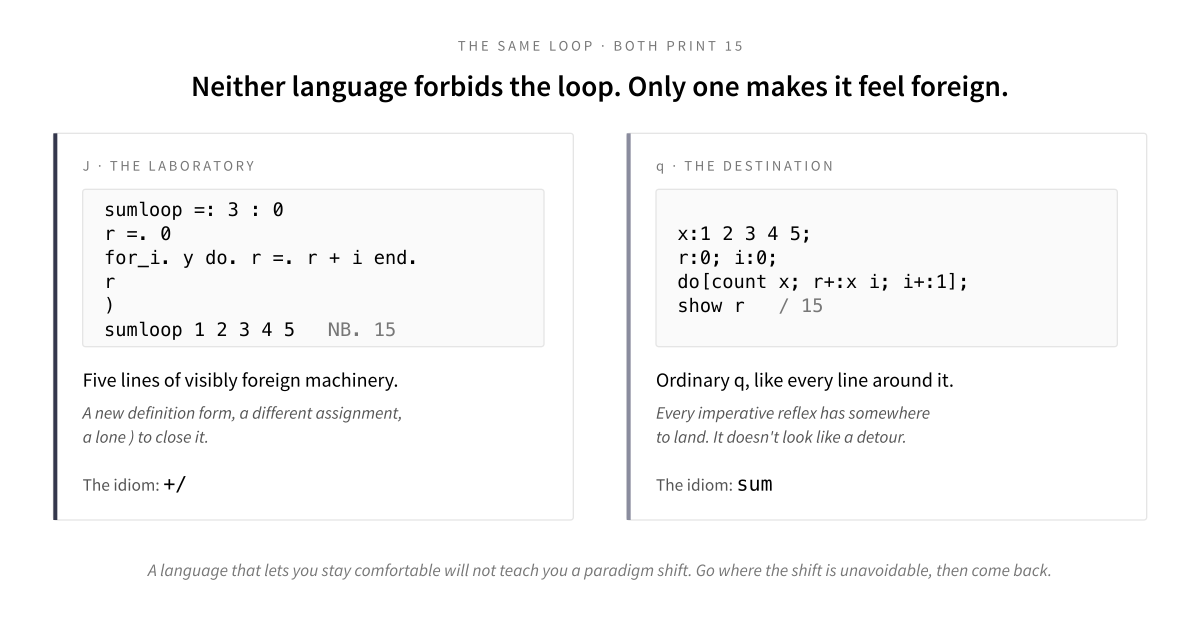
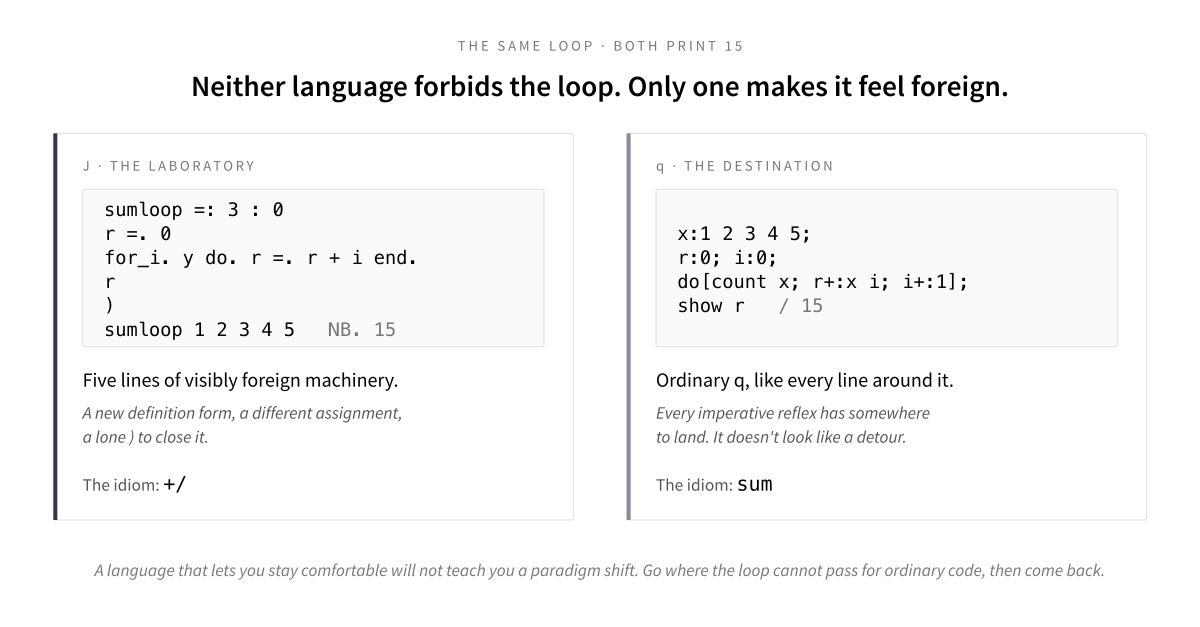
writings: adversarial pass on "Unlearn the loop" before publication
Codex adversarial review over the whole article, its three figures and the new posts, run with
CODEX_POLICY_OVERRIDE=user-requested-adversarial-review because the publishing brief asked for
this pass. Six findings; each was checked against the lessons, the eval records and the pinned
interpreters before it was applied, and all six were real.

- "A parenthesised run of functions is a syntax error" overgeneralised the fork's failure. On
  KDB-X CE 5.0, `(sum max count) 1 2 3` parses and returns 3 (q reads it as max applied to two
  function atoms, which yields count). The sentence now says such a run does not make a new
  function in q, and that the fork does not even parse. Lesson 01 carried the same sentence and
  gets the same fix; the transition chapter already had it right.
- "Somewhere the shift cannot be avoided" contradicted the section's own argument that J does not
  forbid loops. Now "somewhere the loop cannot pass for ordinary code", in the article and in
  figure 1's footer and description; the card is re-rendered from the edited figure and stays
  byte-identical to `rsvg-convert -w 1200`.
- "For printing one extra line": both task 15 answers printed a six-line schema table before the
  join (`show meta quote`). Now "an extra block, the table's schema, before the answer", which is
  what eval/runs/notes.md and the eval article say.
- The posts said "a moving window is a running total with a width"; the lesson equates the moving
[…]

Changed region(s): [[0.0925, 0.8788, 0.925, 0.9394]]

diff --git a/writings/04-social.md b/writings/04-social.md
@@ -16,7 +16,7 @@ transition chapter's two blocks under "The windows have a different shape, and n
 verbatim; `3 mavg 1 2 3 4 5 6f    / 1 1.5 2 3 4 5` is the next block, verbatim including its
 trailing comment, which is the output make verify-prose checks. All three are byte-identical to
 lessons/00-transition/README.md (checked 2026-10-17).
-Tagging: KX is @kxsystems on X. KX has no Bluesky, Mastodon or Nostr account (checked
+Tagging: KX is @kxsystems on X, inside the first 280 characters as in the eval and as-of join posts. KX has no Bluesky, Mastodon or Nostr account (checked
 2026-09-25), so those posts name KX in plain text. J is named in plain text everywhere; no account
 is tagged for it.
 Images: attach writings/figures/04/linkedin-card.png (1200×627, figure 1 rendered with
@@ -37,21 +37,22 @@ language forbids the loop, only one makes it feel foreign.
 
 Figure 3 alt text (the self-reply):
 Two panels about J habits that break in q. Left, the fork fails loudly: +/ % # is a mean written
-with no data; typed into q it does not parse, the error message is blank and the caret lands
-mid-fork, so you cannot ship it; q wants avg or a lambda instead. Right, the windows fail silently:
-the 3-period moving average of 1 to 6 gives four results in J (2 3 4 5) and six in q
-(1 1.5 2 3 4 5); drawn aligned by position, J's first result sits under q's third, so reading q's
-first value as a full window is two slots early, with no error. Footer: the thinking transfers,
-the plumbing does not; respect the silent one more.
+with no data; the same text typed into q is shown with the blank error message q prints and the
+note "does not parse", so you cannot ship it; q wants avg or a lambda instead. Right, the windows
+fail silently: the 3-period moving average of 1 to 6 gives four results in J (2 3 4 5) and six in
+q (1 1.5 2 3 4 5), drawn as two rows of boxes aligned by position, so J's first value sits above
+q's first; an arrow from J's first value to q's third shows where it belongs, two slots to the
+right. Read q's first value as a full window and you are two slots early, with no error. Footer:
+the thinking transfers, the plumbing does not; respect the silent one more.
 -->
 
 # X (single long post, tag @kxsystems)
 
-Here is a perfectly good q program: a counter, a loop, an accumulator, and it prints 15. It will still be correct next year, in production. That is the problem. q has every imperative reflex you brought from Python or Java, and the answers come out right, so nothing ever pushes you toward sum x. Article 4 of my array-thinking series.
+Here is a perfectly good q program: a counter, a loop, an accumulator, and it prints 15. It will still be correct next year, in production. That is the problem. @kxsystems' q has every imperative reflex you brought from Python or Java, and the answers come out right, so nothing ever pushes you toward sum x. Article 4 of my array-thinking series.
 
 J doesn't forbid loops either. But to write one you leave J's ordinary notation entirely: a definition block, a different assignment, a lone ) to close it. Five lines of visibly foreign machinery, where the idiom is two characters. In q the loop is one ordinary line, indistinguishable from the q around it. That feeling of having wandered off is the whole case for a short detour through J before q.
 
-Three ideas come back from the detour: iteration is something you attach to a function (a moving window is a running total with a width), a function can be written with no data in it, and depth is a number you choose. Two of them betray you on the way back. The fork +/ % # (sum divided by count, with no data mentioned) does not parse in q: loud, and it cannot ship. The other one ships. The 3-period moving average of six numbers in J:
+Three ideas come back from the detour: iteration is something you attach to a function (a moving sum is a running total with a width), a function can be written with no data in it, and depth is a number you choose. Two of them betray you on the way back. The fork +/ % # (sum divided by count, with no data mentioned) does not parse in q: loud, and it cannot ship. The other one ships. The 3-period moving average of six numbers in J:
 
 3 (+/ % #)\ 1 2 3 4 5 6
 
@@ -61,7 +62,7 @@ gives 2 3 4 5: complete windows only. The same request in q (in q, / starts a co
 
 Six results, ramping up through partial windows. Neither is wrong. Both are called "the 3-period moving average". Read q's first value as a full window, the way J's would be, and you are two positions early, with no error. Last week's unchecked sort failed in the same shape.
 
-Also in the article: what my eval of @kxsystems' q plugin says about whether the shift takes (both arms fixed all three loop-transliteration tasks, and why that carries little weight), and why J rather than APL or BQN. Every snippet is copied from a lesson that runs in CI, on KDB-X Community Edition and J 9.7.1.
+Also in the article: what my eval of KX's q plugin says about whether the shift takes (both arms fixed all three loop-transliteration tasks, and why that carries little weight), and why J rather than APL or BQN. Every snippet is copied from a lesson that runs in CI, on KDB-X Community Edition and J 9.7.1.
 
 Article 4 of 5: https://nandan.me/writing/unlearn-the-loop/
 
@@ -87,7 +88,7 @@ Article 4 of 5: https://nandan.me/writing/unlearn-the-loop/
 
 q has loops, and they work. Here is a perfectly good q program: a counter, a loop, an accumulator, and it prints 15. It will still be correct next year, in production. That is the problem: every reflex you bring from Python or Java has somewhere to land in q, the answers come out right, and nothing ever pushes you toward the idiom, sum x. Article 4 of my array-thinking series is about why a language that lets you stay comfortable cannot teach you a paradigm shift.
 
-J does not forbid loops either. What differs is what writing one costs you: you leave J's ordinary notation for five lines of visibly foreign machinery, where the idiom is two characters. That feeling of having wandered off is the whole case for a short detour through J before q. Three ideas come back from it: iteration is something you attach to a function (a moving window is a running total with a width), a function can be written with no data in it, and depth is a number you choose.
+J does not forbid loops either. What differs is what writing one costs you: you leave J's ordinary notation for five lines of visibly foreign machinery, where the idiom is two characters. That feeling of having wandered off is the whole case for a short detour through J before q. Three ideas come back from it: iteration is something you attach to a function (a moving sum is a running total with a width), a function can be written with no data in it, and depth is a number you choose.
 
 Two of them break on the way back. A mean written J's way, with no data in it, does not parse in q: loud, and it cannot ship. The 3-period moving average ships: of six numbers, J returns four averages (complete windows only) and q returns six (ramping up through partial windows). Neither is wrong, both are called the same thing, and reading q's first value as a full window puts you two positions early with no error. Last week's unchecked sort failed in the same shape.
 

diff --git a/writings/04-unlearn-the-loop.md b/writings/04-unlearn-the-loop.md
@@ -104,8 +104,8 @@ Tuesday.
 
 **That is the whole case for the laboratory.** J is no stricter than q. What it does is make the
 imperative path *feel* like what it is, where q makes it feel like home. A language that lets you
-stay comfortable will not teach you a paradigm shift. You have to go somewhere the shift cannot
-be avoided, and feel it before you come back.
+stay comfortable will not teach you a paradigm shift. You have to go somewhere the loop cannot
+pass for ordinary code, and feel that before you come back.
 
 Three things become visible over there, and two of them will betray you on the way back.
 
@@ -320,8 +320,9 @@ the text arrives as a runtime string, so the parsing happens *inside* the protec
 the only way to trap this error, and it means building code as a string on purpose, which is not a
 program anyone writes by accident.
 
-**q has no tacit forks or trains.** A parenthesised run of functions is a syntax error. What q
-wants is for you to say the composition out loud (`2f` is the float 2.0):
+**q has no tacit forks or trains.** A parenthesised run of functions does not make a new function
+in q, and the fork does not even parse. What q wants is for you to say the composition out loud
+(`2f` is the float 2.0):
 
 ```q
 avg til 5                    / 2f
@@ -401,10 +402,11 @@ one task where both arms departed from my reference was an as-of join: both set 
 task sheet expected `` `g# ``, two of q's column *attributes*, the flags a table carries about how a
 column is laid out. (I first wrote that up as both of them getting the attribute *wrong*. They didn't. The [set-attribute page](https://code.kx.com/q/ref/set-attribute/) says
 parted applies in memory as well as on disk when the data is sorted so it can be set, and both had
-sorted first.) Both arms also lost that task's correctness point, for printing one extra line. And
-a later review ran the task's "broken" input and found that the unsorted join already returned the
-right rows on that data, so the task never tested whether a model can find a sort bug at all. That
-task is a record of my instrument's defects, not evidence about models.
+sorted first.) Both arms also lost that task's correctness point, for printing an extra block, the
+table's schema, before the answer. And a later review ran the task's "broken" input and found that
+the unsorted join already returned the right rows on that data, so the task never tested whether a
+model can find a sort bug at all. That task is a record of my instrument's defects, not evidence
+about models.
 
 **J has nothing to say about sort order or attributes either.** There is no fork that teaches you
 `` `g# ``, and no rank that tells you when `` `p# `` is the better call.

diff --git a/writings/04-linkedin.md b/writings/04-linkedin.md
@@ -39,7 +39,7 @@ fails, so nothing ever pushes you toward the idiom, sum. J, the array language t
 first, allows loops too. The difference is what writing one costs you: you leave J's ordinary
 notation for five lines of visibly foreign machinery, where the idiom is two characters. That
 feeling of having wandered off is the whole case for a short detour through J. Three ideas come
-back from it: iteration is something you attach to a function (a moving window is a running total
+back from it: iteration is something you attach to a function (a moving sum is a running total
 with a width), a function can be written with no data in it, and depth is a number you choose.
 
 Two of those ideas break on the way back, and the second is the dangerous one. A mean written J's

diff --git a/lessons/01-atoms-and-lists/README.md b/lessons/01-atoms-and-lists/README.md
@@ -176,7 +176,7 @@ handing the same text to `value` as a runtime **string**, where parsing happens 
 protected call, which is a different program from anything you would write by accident.)
 
 **q has no tacit trains or forks.** A parenthesised run of functions is not a new function
-in q; it is a syntax error.
+in q, and the fork does not even parse.
 
 What q wants instead is that you say the composition out loud: name it, or use the built-in:
 
